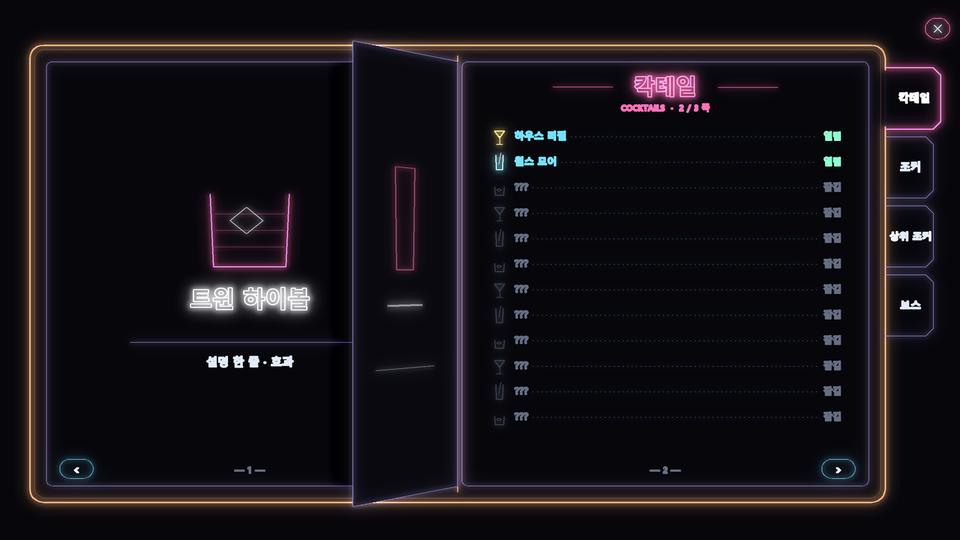
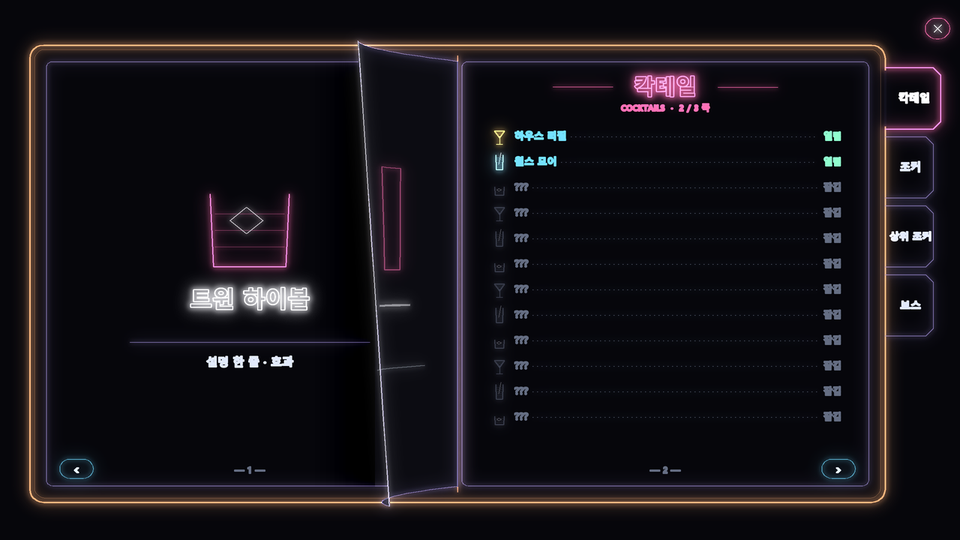
시안: 도감 책 넘기기 다듬음 (휘는 종이 · 면 밝기 · 그림자 · 버튼 눌림 · 탭 밀려 나옴)

Changed region(s): [[0.3438, 0.0593, 0.4688, 0.9481]]

diff --git a/tools/neon/codex_flip_mock.py b/tools/neon/codex_flip_mock.py
@@ -1,14 +1,16 @@
-"""도감 책자 B안: 쪽 넘기는 움직임 (시안 GIF)
+"""도감 책자 B안: 쪽 넘기는 움직임 (시안 GIF, 다듬은 판)
 
-    python tools/neon/codex_flip_mock.py 출력폴더   → codex_flip.gif (960×540, 20fps)
+    python tools/neon/codex_flip_mock.py 출력폴더   → codex_flip.gif (960×540, 25fps) + codex_flip_mid.png
 
-› 를 누르면 오른쪽 쪽 한 장이 책등을 축으로 넘어간다:
-  - 넘어가는 장의 바깥 끝 x = 책등 + 쪽폭 × cos(π u), u = 0 → 1 (0.45초, 시작 · 끝 부드럽게)
-  - 바깥 끝이 눈 쪽으로 들리는 원근: 바깥으로 갈수록 위아래로 최대 10% 커짐 (sin(π u))
-  - 앞면(목록) 은 u < 0.5 동안, 뒷면(왼쪽 상세) 은 u > 0.5 동안. 넘어가는 장 아래로 다음 쪽이 드러남
-  - 장이 지나가는 쪽 위에 옅은 그림자 띠
-탭을 바꾸면(조커) 여러 장이 빠르게 (장마다 0.3초, 0.12초 간격으로 겹쳐) 넘어간다
-게임에선 장 · 글자 대신 선 · 상자를 그 원근 그대로 찍는다 (글자는 넘어가는 동안 숨김, 장이 다 넘어가면 나타남)
+움직임 (› 한 장, 0.5초):
+  1 › 버튼이 눌려 살짝 내려가며 분홍 (0.08초)
+  2 넘어가는 장이 휜다: 장의 각 줄은 책등에서 바깥으로 갈수록 각도가 앞서 (전반) / 뒤처져 (후반) 종이가 둥글게 말림.
+    위 바깥 모서리가 아래보다 조금 먼저 들림 (대각선으로 말림)
+  3 원근: 많이 들린 곳일수록 위아래로 커짐 (최대 10%)
+  4 장 면 밝기는 눕힌 정도(|cos|)로: 똑바로 설 때 가장 어둡게, 접힌 곳(바깥 끝)에 흰 빛줄
+  5 장 아래 드러나는 쪽엔 장 쪽으로 진해지는 그림자 (sin(π u))
+  6 넘어가는 장 위엔 글자 대신 선 · 상자만. 아래로 드러나는 쪽 글자는 그대로 보이고, 장이 내려앉으면 왼쪽 상세가 0.16초 동안 바뀜(겹쳐 사라짐)
+탭 바꾸기(조커): 고른 탭이 0.2초 동안 밀려 나오고(앞 탭은 들어감), 세 장이 0.1초 간격으로 겹쳐 넘어감
 """
 import math
 import os
@@ -24,12 +26,15 @@ LW = CB.BW / 2 - 28
 LX, RX = CB.BX + 22, CB.SPX + 6
 TOP, BOT = CB.BY + 22, CB.BY + CB.BH - 22
 LAV, DIM, FG, JP = hx('a896e1'), hx('5f6878'), hx('dce4f0'), hx('ff9ad5')
+FPS = 25
 
 
 def ease(u):
+    u = min(1.0, max(0.0, u))
     return u * u * (3 - 2 * u)
 
 
+# ---------------------------------------------------------------- 쪽 내용
 def detail_cocktail(M, k):
     cx = LX + LW / 2
     CB.glass(M, k % 3, cx, CB.BY + 300, 2.2, CB.COLS[k % 5])
@@ -61,8 +66,32 @@ def list_joker(M):
         M.word(RX + 72, y + 2, nm if known else '???', CB.CYAN if known else DIM, 14, font=FONT_KO, anchor_center=False)
 
 
+# ---------------------------------------------------------------- 넘어가는 장 (휨 · 원근)
+def sheet_map(u):
+    """장 위 점 (q = 책등에서 잰 거리 0 ~ LW, y) → 화면. 줄마다 각도가 바깥으로 갈수록 달라져 종이가 말린다"""
+    s = math.sin(math.pi * u)
+    cy = (TOP + BOT) / 2
+    lead = 0.55 * s * (1 if u < 0.5 else -1) * (1 - abs(2 * u - 1)) ** 0.3  # 전반: 바깥이 앞섬, 후반: 바깥이 뒤처짐
+    N = 14
+
+    def ang(t, y):  # t = q / LW
+        tilt = 0.22 * s * ((BOT - y) / (BOT - TOP) - 0.5)  # 위 모서리가 먼저
+        return math.pi * u + (lead + tilt) * t ** 1.6
+
+    def P(q, y):
+        t = q / LW
+        x, depth = 0.0, 0.0
+        for i in range(N):
+            a = ang((i + 0.5) / N * t, y)
+            x += math.cos(a) * q / N
+            depth += math.sin(a) * q / N
+        k = 1 + 0.10 * depth / LW
+        return (CB.SPX + x, cy + (y - cy) * k), ang(t, y)
+    return P
+
+
 def sheet_lines(side):
-    """넘어가는 장 위 그림 (책등에서 잰 거리 q, 높이 y): 앞면 = 목록 줄, 뒷면 = 상세 (큰 그림 + 줄 몇 개). 반환 [(점들, 색, 굵기, 밝기)]"""
+    """장 위 그림 (q, y): 앞면 = 목록 줄, 뒷면 = 왼쪽 상세. 반환 [(점들, 색, 굵기, 밝기)]"""
     L = []
     if side == 'front':
         L.append(([(LW / 2 - 60, CB.BY + 66), (LW / 2 + 60, CB.BY + 66)], PINK, 2.0, 0.8))
@@ -79,74 +108,95 @@ def sheet_lines(side):
     return L
 
 
-def sheet(M, u):
-    """넘어가는 장 하나: 테두리 + 그 면의 그림을 원근으로. 반환: 덮을 다각형(화면 좌표)"""
-    a = math.pi * u
-    ca, sa = math.cos(a), math.sin(a)
-    cy = (TOP + BOT) / 2
+def subdiv(pts, n=8):
+    out = []
+    for (x0, y0), (x1, y1) in zip(pts, pts[1:]):
+        for k in range(n): out.append((x0 + (x1 - x0) * k / n, y0 + (y1 - y0) * k / n))
+    out.append(pts[-1])
+    return out
 
-    def P(q, y):  # q = 책등에서 잰 거리 (0 ~ LW)
-        k = 1 + 0.10 * (q / LW) * sa
-        return (CB.SPX + q * ca, cy + (y - cy) * k)
 
-    poly = [P(0, TOP), P(LW, TOP), P(LW, BOT), P(0, BOT)]
+def draw_sheet(img, u):
+    P = sheet_map(u)
+    M = Sign(0.8); M.small_glow = 0.0
     side = 'front' if u < 0.5 else 'back'
+    ca = abs(math.cos(math.pi * u))
+    face = 0.35 + 0.65 * ca  # 눕힌 정도로 면 밝기
     for pts, c, wd, b in sheet_lines(side):
-        if side == 'back':  # 뒷면은 왼쪽 쪽 그림: 책등에서 잰 거리로 바꿈
-            pts = [(LW - x, y) for x, y in pts]
-        M.ln([P(x, y) for x, y in pts], c, wd, b * (0.5 + 0.5 * abs(ca)))
-    edge = [P(0, TOP), P(LW, TOP), P(LW, BOT), P(0, BOT), P(0, TOP)]
-    M.ln(edge, LAV, 1.2, 0.7)
-    return poly
+        if side == 'back': pts = [(LW - x, y) for x, y in pts]
+        M.ln([P(x, y)[0] for x, y in subdiv(pts, 4)], c, wd, b * face)
+    # 테두리 (휜 모양) + 바깥 끝 흰 빛줄
+    qs = [LW * k / 16 for k in range(17)]
+    ys = [TOP + (BOT - TOP) * k / 16 for k in range(17)]
+    outline = [P(q, TOP)[0] for q in qs] + [P(LW, y)[0] for y in ys] + [P(q, BOT)[0] for q in reversed(qs)] + [P(0, y)[0] for y in reversed(ys)]
+    M.ln(outline, LAV, 1.2, 0.5 + 0.4 * face)
+    M.ln([P(LW - 3, y)[0] for y in ys], WHITE, 1.0, 0.25 + 0.45 * math.sin(math.pi * u))
+    # 덮기 (장 면 색: 눕힌 정도로 조금 밝게) → 그림자 → 장 그림
+    d = ImageDraw.Draw(img)
+    shade = int(8 + 7 * face)
+    # 그림자: 장 아래 드러나는 쪽, 장 쪽으로 진해짐
+    s = math.sin(math.pi * u)
+    sh = Image.new('RGB', img.size, (0, 0, 0))
+    sd = ImageDraw.Draw(sh)
+    edge_x = P(LW, (TOP + BOT) / 2)[0][0]
+    for k in range(40):
+        x = edge_x + (k if u < 0.5 else -k) * 2.5
+        if (u < 0.5 and x > RX + LW) or (u >= 0.5 and x < LX): break
+        v = int(26 * s * (1 - k / 40) ** 2)
+        sd.line([(x, TOP), (x, BOT)], fill=(v, v, v), width=3)
+    img = ImageChops.subtract(img, sh)
+    d = ImageDraw.Draw(img)
+    d.polygon(outline, fill=(shade, shade, shade + 6))
+    lay = M.draw()
+    return ImageChops.add(img, ImageChops.subtract(lay, Image.new('RGB', lay.size, (6, 6, 11))))
 
 
-def frame(state):
-    """state: dict(tab, left(fn, arg), right(fn, arg), sheets=[u ...])"""
-    base = Sign(0.8); base.small_glow = 0.0
-    CB.book(base, active=state['tab'])
-    state['left'][0](base, *state['left'][1:])
-    state['right'][0](base, *state['right'][1:])
-    CB.footer(base)
-    img = base.draw()
-    for u in state.get('sheets', []):
-        top = Sign(0.8); top.small_glow = 0.0
-        poly = sheet(top, u)
-        d = ImageDraw.Draw(img)
-        d.polygon(poly, fill=(9, 9, 15))
-        # 그림자 띠: 장이 덮고 있는 쪽 위 (장 바깥 끝 근처)
-        ex = poly[1][0]
-        sh = Image.new('RGB', img.size, (0, 0, 0))
-        sd = ImageDraw.Draw(sh)
-        for k in range(18):
-            x = ex + (k if u < 0.5 else -k) * 2
-            sd.line([(x, TOP), (x, BOT)], fill=(int(30 * (1 - k / 18)),) * 3, width=2)
-        img = ImageChops.subtract(img, sh)
-        lay = top.draw()
-        img = ImageChops.add(img, ImageChops.subtract(lay, Image.new('RGB', lay.size, (6, 6, 11))))
+# ---------------------------------------------------------------- 한 장면
+def render(tab, left, right, sheets=(), text=1.0, press=0.0, ext=None):
+    """text: 쪽 글자 보임 정도 (넘어가는 동안 0, 다 넘어가면 0 → 1)"""
+    def layer(with_text):
+        M = Sign(0.8); M.small_glow = 0.0
+        CB.book(M, active=tab, ext=ext)
+        if with_text:
+            left[0](M, *left[1:])
+            right[0](M, *right[1:])
+        CB.footer(M, press)
+        return M.draw()
+    img = layer(True) if text >= 1 else Image.blend(layer(False), layer(True), text) if text > 0 else layer(False)
+    for u in sheets:
+        if 0 < u < 1: img = draw_sheet(img, u)
     return img.resize((960, 540), Image.LANCZOS)
 
 
 def main(out):
     os.makedirs(out, exist_ok=True)
     F = []
-    s1 = dict(tab=0, left=(detail_cocktail, 5), right=(list_cocktail, 0))
-    F += [frame(s1)] * 8
-    # › : 칵테일 1쪽 → 2쪽 (0.45초 = 9장)
-    for f in range(9):
-        u = ease((f + 1) / 9)
-        F.append(frame(dict(tab=0, left=(detail_cocktail, 5), right=(list_cocktail, 1), sheets=[u])))
-    s2 = dict(tab=0, left=(detail_cocktail, 12), right=(list_cocktail, 1))
-    F += [frame(s2)] * 10
-    # 조커 탭: 세 장이 빠르게 겹쳐 넘어감 (장마다 6장, 2장 간격)
-    for f in range(12):
-        us = [ease(min(1, max(0, (f - k * 2 + 1) / 6))) for k in range(3)]
-        us = [u for u in us if 0 < u < 1]
-        F.append(frame(dict(tab=1, left=(detail_cocktail, 12), right=(list_joker,), sheets=us)))
-    s3 = dict(tab=1, left=(detail_joker, 1), right=(list_joker,))
-    F += [frame(s3)] * 16
+    L1, R1 = (detail_cocktail, 5), (list_cocktail, 0)
+    L2, R2 = (detail_cocktail, 12), (list_cocktail, 1)
+    LJ, RJ = (detail_joker, 1), (list_joker,)
+    F += [render(0, L1, R1)] * 8
+    F += [render(0, L1, R1, press=p) for p in (0.5, 1.0)]  # 1 › 눌림
+    n = int(0.5 * FPS)
+    for f in range(n):  # 2 ~ 5 한 장 넘어감 (아래로 다음 쪽이 드러남)
+        F.append(render(0, L1, R2, sheets=[ease((f + 1) / n)], press=max(0.0, 1 - f / 3)))
+    a, b = render(0, L1, R2), render(0, L2, R2)
+    F += [Image.blend(a, b, (k + 1) / 4) for k in range(4)]  # 6 왼쪽 상세가 겹쳐 바뀜
+    F += [b] * 12
+    # 탭 바꾸기: 조커 탭이 밀려 나오고 세 장이 겹쳐 넘어감
+    m = int(0.32 * FPS)
+    tot = m + 2 * int(0.1 * FPS) + 1
+    for f in range(tot):
+        e = ease(min(1.0, (f + 1) / 5))
+        ext = [10 * (1 - e), 10 * e, 0, 0]
+        us = [ease((f - k * int(0.1 * FPS) + 1) / m) for k in range(3)]
+        F.append(render(1, L2, RJ, sheets=us, ext=ext))
+    a, b = render(1, L2, RJ, ext=[0, 10, 0, 0]), render(1, LJ, RJ)
+    F += [Image.blend(a, b, (k + 1) / 4) for k in range(4)]
+    F += [b] * 18
     pal = [f.convert('P', palette=Image.ADAPTIVE, colors=200) for f in F]
-    pal[0].save(os.path.join(out, 'codex_flip.gif'), save_all=True, append_images=pal[1:], duration=50, loop=0)
-    F[12].save(os.path.join(out, 'codex_flip_mid.png'))
+    pal[0].save(os.path.join(out, 'codex_flip.gif'), save_all=True, append_images=pal[1:], duration=int(1000 / FPS), loop=0)
+    F[10 + n // 2].save(os.path.join(out, 'codex_flip_mid.png'))
+    F[10 + n // 4].save(os.path.join(out, 'codex_flip_early.png'))
     print('ok', len(F))
 
 

diff --git a/tools/neon/codex_book_mock.py b/tools/neon/codex_book_mock.py
@@ -41,7 +41,7 @@ def glass(M, kind, cx, by, s, c, b=1.0):
         M.ln([P(-12, -30), P(-2, -38), P(8, -30), P(-2, -22), P(-12, -30)], WHITE, 1.0, 0.6 * b)
 
 
-def book(M, active=0):
+def book(M, active=0, ext=None):
     # 겉표지 (두 겹) + 쪽 (조금 안쪽) + 책등
     M.rr(BX, BY, BW, BH, 18, COVER, 2.2, 0.9)
     M.rr(BX + 6, BY + 6, BW - 12, BH - 12, 14, COVER, 0.8, 0.45)
@@ -55,7 +55,7 @@ def book(M, active=0):
     ex = BX + BW  # 책 오른쪽 옆면
     for i, (nm, on) in enumerate(tabs):
         y0, h = BY + 30 + i * 92, 82
-        w = 74 if on else 64
+        w = 64 + (ext[i] if ext else (10 if on else 0))  # ext: 탭마다 더 나온 길이 (움직임용)
         c = PINK if on else LAV
         M.ln([(ex, y0), (ex + w - 10, y0), (ex + w, y0 + 10), (ex + w, y0 + h - 10), (ex + w - 10, y0 + h), (ex, y0 + h)], c, 1.8 if on else 1.2, 1.0 if on else 0.55)
         if on: M.ln([(ex, y0 + 4), (ex, y0 + h - 4)], hx('06060b'), 3.0, 1.0)  # 고른 탭은 책 테와 이어진 듯 (경계선 지움)
@@ -90,13 +90,14 @@ def rows(M, x0, y0, w, names, start, hover=None):
         if hover == k: M.ln([(x0 + 34, y + 12), (x0 + w, y + 12)], PINK, 1.0, 0.8)
 
 
-def footer(M):
+def footer(M, press=0.0):
     """쪽 넘기기는 책등에서 떼어 바깥 아래 귀퉁이에 (‹ 왼쪽 쪽 왼쪽 아래, › 오른쪽 쪽 오른쪽 아래), 쪽 번호는 각 쪽 아래 가운데 (책처럼)"""
     lw = BW / 2 - 28
     lx, rx = BX + 22, SPX + 6
     y = BY + BH - 44
     for x, s in ((lx + 18, '‹'), (rx + lw - 18 - 44, '›')):
-        M.rr(x, y - 14, 44, 26, 13, CYAN, 1.2, 0.6)
+        pr = press if s == '›' else 0.0
+        M.rr(x, y - 14 + 2 * pr, 44, 26, 13, PINK if pr > 0 else CYAN, 1.2 + 0.8 * pr, 0.6 + 0.4 * pr)  # press: 눌림 (살짝 내려가며 분홍)
         M.word(x + 22, y + 6, s, FG, 18, font=FONT_KO)
     M.word(lx + lw / 2, y + 5, '— 1 —', DIM, 12, font=FONT_KO)
     M.word(rx + lw / 2, y + 5, '— 2 —', DIM, 12, font=FONT_KO)
